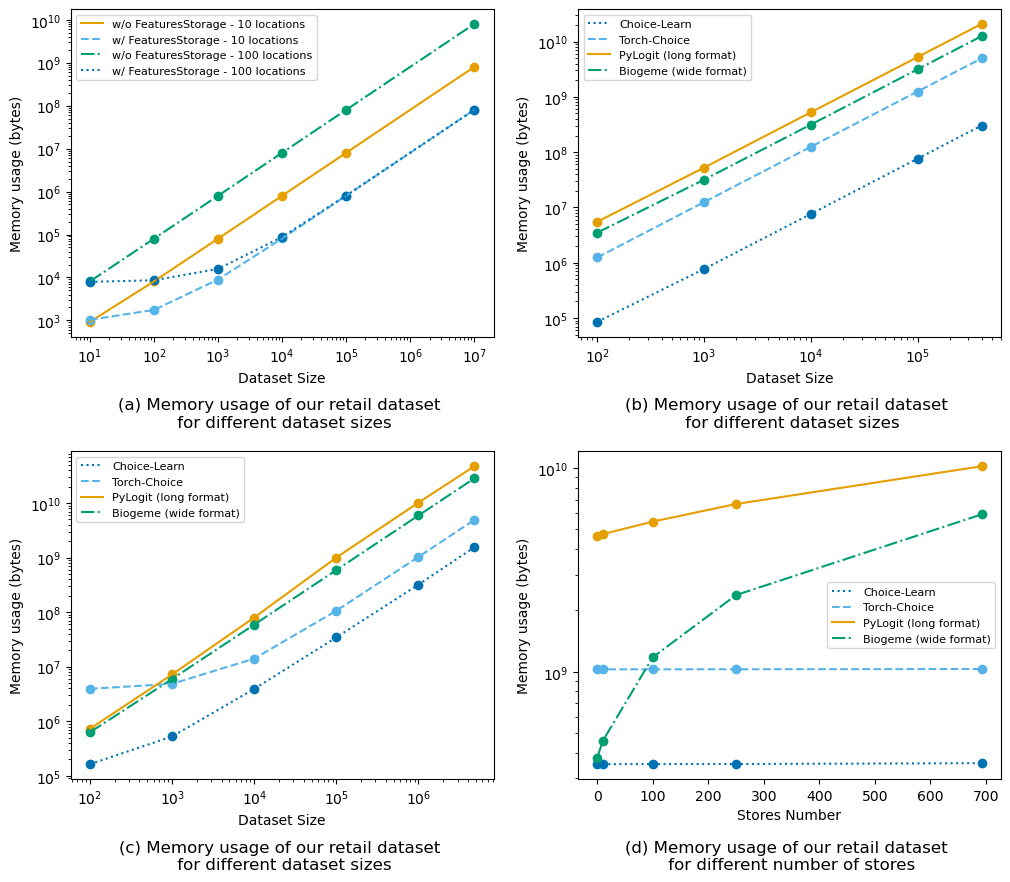
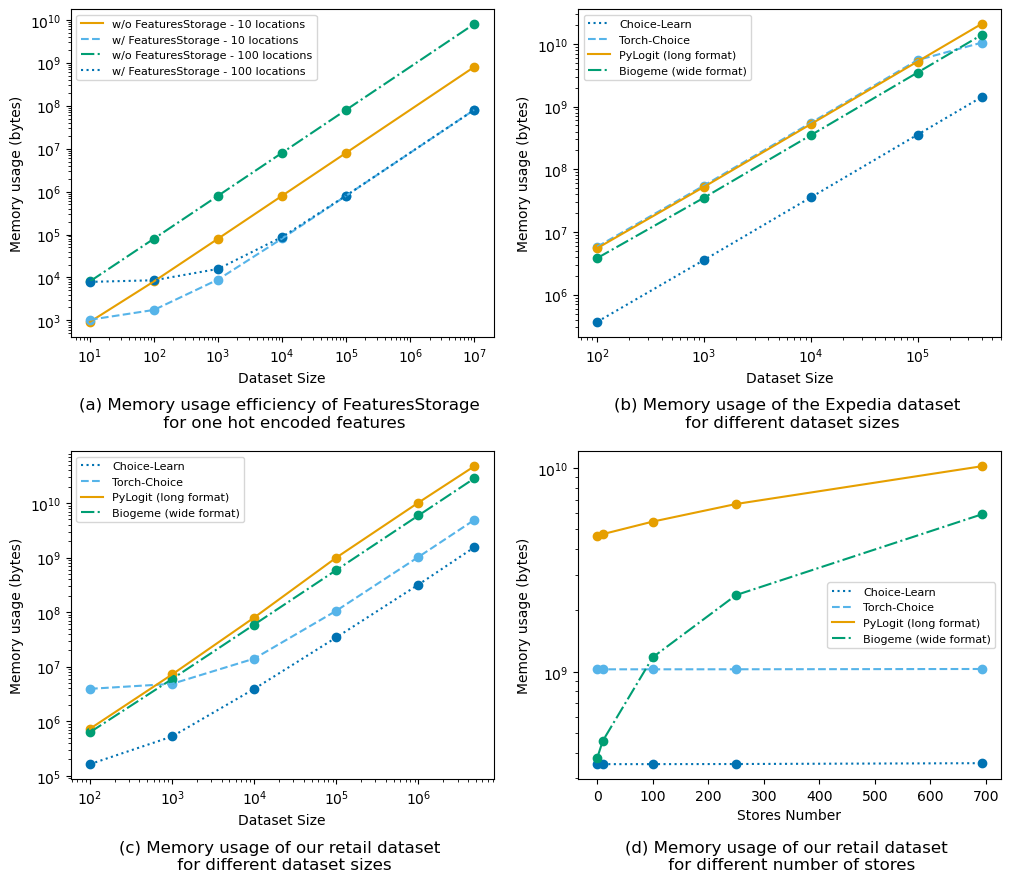
Paper length reduction (#109)
* ADD: small enhancements

* FIX: typo

* ENH/FIX: plots

diff --git a/docs/paper/paper.md b/docs/paper/paper.md
@@ -37,9 +37,9 @@ output: paper_pdf
 
 # Introduction
 
-Discrete choice models aim at predicting choice decisions made by individuals from a menu of alternatives, which is known as an assortment. Well-known use cases include predicting a commuter's choice of transportation mode or a customer's purchases. A key capability of choice models is their ability to handle assortment variations, such as predicting choices when some alternatives become unavailable or when their features change in different operational contexts. This adaptability to different scenarios allows these models to be used as inputs for optimization problems, including assortment planning or pricing.
+Discrete choice models aim at predicting choice decisions made by individuals from a menu of alternatives, called an assortment. Well-known use cases include predicting a commuter's choice of transportation mode or a customer's purchases. Choice models are able to handle assortment variations, when some alternatives become unavailable or when their features change in different contexts. This adaptability to different scenarios allows these models to be used as inputs for optimization problems, including assortment planning or pricing.
 
-Choice-Learn provides a modular suite of choice modeling tools for practitioners and academic researchers to process choice data, and then formulate, estimate and operationalize choice models. The library is structured into two levels of usage, as illustrated in Figure \ref{fig:gen_org}. The higher-level is designed for fast and easy implementation and the lower-level enables more advanced parameterizations. This structure is inspired by Keras' different endpoints [@Chollet:2015], which enables a user-friendly modeling interface. Choice-Learn is designed with the following objectives:
+Choice-Learn provides a modular suite of choice modeling tools for practitioners and academic researchers to process choice data, and then formulate, estimate and operationalize choice models. The library is structured into two levels of usage, as illustrated in Figure \ref{fig:gen_org}. The higher-level is designed for fast and easy implementation and the lower-level enables more advanced parameterizations. This structure, inspired by Keras' different endpoints [@Chollet:2015], enables a user-friendly interface. Choice-Learn is designed with the following objectives:
 
 - **Streamlined:** The processing of datasets and the estimation of standard choice models are facilitated by a simple code signature.
 - **Scalable:** Optimized processes are implemented for data storage and models estimation, allowing the use of large datasets and models with a large number of parameters.
@@ -47,7 +47,7 @@ Choice-Learn provides a modular suite of choice modeling tools for practitioners
 - **Models Library:** The same package provides implementations of both standard choice models and machine learning-based methods, including neural networks.
 - **Downstream operations:** Post-processing tools that leverage choice models for assortment planning and pricing are integrated into the library.
 
-A summary of the main contributions is provided in Table \ref{tab:comparison1} and \ref{tab:comparison2}.
+The main contributions are summarized in Tables \ref{tab:comparison1} and \ref{tab:comparison2}.
 
 ![General Organization of the package. \label{fig:gen_org}](../illustrations/choice_learn_levels.png)
 
@@ -95,19 +95,15 @@ A summary of the main contributions is provided in Table \ref{tab:comparison1} a
 # Statement of need
 
 ## Streamlined signatures
-`Choice-Learn` proposes short code signatures. The *ChoiceDataset* object, which handles the data, takes only 4 inputs: 'items_features' describing each available alternative, 'shared_features' describing the context of the choice, 'available_items' indicating the subset of alternatives offered in the assortment, and finally 'choices', the chosen alternative. Methods to seamlessly integrate popular data formats, such as long and wide format dataframes [@Helveston:2023] are also provided.
+`Choice-Learn` proposes short code signatures that are consistent with mainstream machine learning packages such as scikit-learn [@Pedregosa:2011]. The *ChoiceDataset* object, which handles the data, takes only 4 inputs: 'items_features' describing each available alternative, 'shared_features' describing the context of the choice, 'available_items' indicating the subset of available alternatives, and finally 'choices', the chosen alternative. Methods to seamlessly integrate popular data formats, such as long and wide format dataframes [@Helveston:2023] are also provided.
 
 ```python
 dataset = ChoiceDataset(choices, shared_features, items_features, available_items)
 ```
 
-Finally, data usage, model estimation and evaluation are designed to be consistent with mainstream machine learning packages such as scikit-learn [@Pedregosa:2011].
-
 ## Data and model scalability
 
-Choice modeling is widely used in retail and e-commerce sectors to better understand customer behavior and optimize product offerings. With the continuous development of firms' data architectures, larger-scale choice datasets are often available and valuable for managing customer-facing operations.
-
-`Choice-Learn`'s data management relies on NumPy [@Harris:2020] with the objective of limiting the memory footprint. It minimizes the repetition of items or customers features and defers the jointure of the full data structure until processing batches of data. Moreover, the *FeaturesStorage* object, illustrated in Figure \ref{fig:fbi}, allows feature values to be referenced only by their ID. These feature values are substituted to the ID placeholder on the fly in the batching process. For instance, supermarkets features such as surface, position, or number of employees are often stationary. Thus, they can be stored in an auxiliary data structure and in the main dataset, the store where the choice is recorded is only referenced with its ID.
+`Choice-Learn`'s data management relies on NumPy [@Harris:2020] with the objective of limiting the memory footprint. It minimizes the repetition of items or customers features and defers the jointure of the full data structure until processing batches of data. Moreover, the *FeaturesStorage* object, illustrated in Figure \ref{fig:fbi}, allows feature values to be referenced only by their ID. These values are substituted to the ID placeholder on the fly in the batching process. For instance, supermarkets features such as surface or position are often stationary. Thus, they can be stored in an auxiliary data structure and in the main dataset, the store where the choice is recorded is only referenced with its ID.
 
 The package stands on Tensorflow [@Abadi:2015] for model estimation, offering the possibility to use fast second-order optimization algorithm such as L-BFGS [@Nocedal:2006] as well as various gradient-descent optimizers [@Tieleman:2012; @Kingma:2017] specialized in handling batches of data. GPU usage is also possible, which can prove to be time-saving.
 Finally, the TensorFlow backbone ensures an efficient usage in a production environment, for instance within an assortment recommendation software, through deployment and serving tools, such as TFLite and TFServing.
@@ -124,22 +120,22 @@ The choice-modeler's job is to formulate an adequate utility function $U(.)$ dep
 
 ## Library of traditional random utility models and machine learning-based models
 
-Traditional parametric choice models, including the Conditional Logit [@Train:1987], often specify the utility function in a linear form. This provides interpretable coefficients, such as price  elasticities, but also limits the predictive power of the model.
-The availability of detailed customer choice data, paired with advances in machine learning, enables the estimation of more complex models, with neural networks approaches [@Han:2022; @Aouad:2023] and tree-based models [@Salvadé:2024; @AouadMarket:2023]. While existing choice libraries [@Bierlaire:2023; @Brathwaite:2018; @Du:2023] are often not designed to integrate such machine learning-based approaches, `Choice-Learn` proposes a collection including both types of models.
+Traditional parametric choice models, including the Conditional Logit [@Train:1987], often specify the utility function in a linear form. This provides interpretable coefficients but limits the predictive power of the model.
+Recent works propose the estimation of more complex models, with neural networks approaches [@Han:2022; @Aouad:2023] and tree-based models [@Salvadé:2024; @AouadMarket:2023]. While existing choice libraries [@Bierlaire:2023; @Brathwaite:2018; @Du:2023] are often not designed to integrate such machine learning-based approaches, `Choice-Learn` proposes a collection including both types of models.
 
 ## Downstream operations: Assortment and pricing optimization
-`Choice-Learn` also offers additional tools for downstream operations, that are not usually integrated in choice modeling libraries. In particular, assortment optimization is a common use case that leverages a choice model in order to determine the optimal subset of alternatives to offer customers in order to maximize a certain objective, such as the expected revenue, conversion rate, or social welfare. This framework captures a variety of applications such as assortment planning, display location optimization, and pricing. We provide a generic implementation based on the mixed-integer programming formulation described in [@MendezDiaz:2014], with the option to choose the solver between Gurobi [@Gurobi:2023] and OR-Tools [@ORTools:2024].
+`Choice-Learn` offers additional tools for downstream operations, that are not usually integrated in choice modeling libraries. In particular, assortment optimization is a common use case that leverages a choice model to determine the optimal subset of alternatives to offer customers maximizing a certain objective, such as the expected revenue, conversion rate, or social welfare. This framework captures a variety of applications such as assortment planning, display location optimization, and pricing. We provide implementations based on the mixed-integer programming formulation described in [@MendezDiaz:2014], with the option to choose the solver between Gurobi [@Gurobi:2023] and OR-Tools [@ORTools:2024].
 
 
 # Experiments and examples
 
 ## Memory usage: a case study
 
-We provide numerical examples of memory usage to showcase the efficiency of the *FeaturesStorage*. Consider a feature repeated in a dataset, such as a one-hot encoding for locations, represented by a matrix of shape (*#locations, #locations*) where each row refers to one location. In Figure \ref{fig:xps} (a), we compare the memory usage for different dataset sizes.
+We provide in Figure \ref{fig:xps} (a) numerical examples of memory usage to showcase the efficiency of the *FeaturesStorage*. We consider a feature repeated in a dataset, such as a one-hot encoding for locations, represented by a matrix of shape (*#locations, #locations*) where each row refers to one location.
 
-We conduct a similar comparison on the ICDM 2013 Expedia dataset [@Expedia:2013] with four data handling methods: pandas.DataFrames [@pandas:2020] in long and wide format, both used in choice modeling packages, as well as Torch-Choice and `Choice-Learn`. Figure \ref{fig:xps} (b) shows the results for various sample sizes.
+We compare four data handling methods on the Expedia dataset [@Expedia:2013]: pandas.DataFrames [@pandas:2020] in long and wide format, both used in choice modeling packages, Torch-Choice and `Choice-Learn`. Figure \ref{fig:xps} (b) shows the results for various sample sizes.
 
-Finally, in Figure \ref{fig:xps} (c) and (d), we observe performance gains in terms of memory management on a proprietary dataset in brick-and-mortar retailing consisting of the aggregation of more than 4 billion purchases in Konzum supermarkets in Croatia. Focusing  on the *coffee* subcategory, the dataset specifies, for each purchase, which products were available, their prices, as well as a one-hot representation of the supermarket.
+Finally, in Figure \ref{fig:xps} (c) and (d), we observe memory usage gains on a proprietary dataset in brick-and-mortar retailing consisting of the aggregation of more than 4 billion purchases in Konzum supermarkets in Croatia. Focusing on the *coffee* subcategory, the dataset specifies, for each purchase, which products were available, their prices, as well as a one-hot representation of the supermarket.
 
 ![Memory usage experiments. \label{fig:xps}](../illustrations/ram_usage_comparison.png)
 
